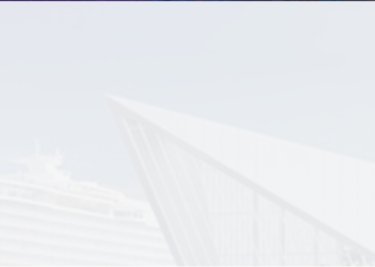
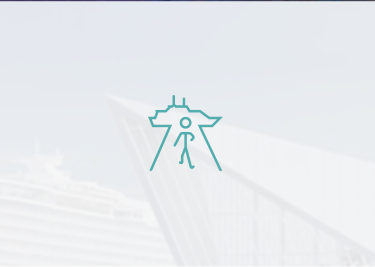
refined the css of the landing page

Changed region(s): [[0.3813, 0.3596, 0.616, 0.6592], [0.5573, 0.5393, 0.5867, 0.6292]]

diff --git a/src/pages/landing/landing.html b/src/pages/landing/landing.html
@@ -26,82 +26,84 @@
   </div>
 
   <!--set the background image of this div-->
-  <div >
     <ion-grid no-padding no-margin>
 
       <ion-row no-padding no-margin>
         <ion-col class="button-icon" no-padding no-margin text-center>
+          <ion-card no-padding no-margin class="card-image">
+            <img src="assets/background/bckg1.png"/>
+            <div class="card-title">EMBARKATION</div>
 
-          <!--<ion-img width="80" height="80" src="assets/imgs/in_logo.png"></ion-img>-->
-          <div class="grid-background1">
+          </ion-card>
 
-            <img style="width: 15vw; height: 15vh; padding-top: 36px; padding-bottom: 20px" src="assets/imgs/Embarkation.png" no-margin alt="hello">
-
-              <ion-label color="primary" no-margin class="label-text" >EMBARKATION</ion-label>
-
-
-          </div>
-
+          <!--<div class="grid-background1">-->
+            <!--<img style="width: 15vw; height: 15vh; padding-top: 36px; padding-bottom: 20px" src="assets/imgs/Embarkation.png" no-margin alt="hello">-->
+              <!--<ion-label color="primary" no-margin class="label-text" >EMBARKATION</ion-label>-->
+          <!--</div>-->
         </ion-col>
         <ion-col  no-padding no-margin text-center>
-          <div class="grid-background2">
-            <img style="width: 15vw; height: 15vh; padding-top: 36px; padding-bottom: 20px" src="assets/imgs/Disembarkation.png" alt="hello">
+          <ion-card no-padding no-margin class="card-image">
+            <img src="assets/background/bckg2.png"/>
+            <div class="card-title">DISEMBARKATION</div>
 
-
-              <ion-label color="primary" no-margin class="label-text">DISEMBARKATION</ion-label>
-
-
-          </div>
+          </ion-card>
+          <!--<div class="grid-background2">-->
+            <!--<img style="width: 15vw; height: 15vh; padding-top: 36px; padding-bottom: 20px" src="assets/imgs/Disembarkation.png" alt="hello">-->
+              <!--<ion-label color="primary" no-margin class="label-text">DISEMBARKATION</ion-label>-->
+          <!--</div>-->
         </ion-col>
       </ion-row>
 
       <ion-row no-padding no-margin>
         <ion-col  no-padding no-margin text-center>
-          <div class="gird-background3">
-            <img style="width: 15vw; height: 15vh; padding-top: 36px; padding-bottom: 20px" src="assets/imgs/Security.png" alt="hello">
+          <ion-card no-padding no-margin class="card-image">
+            <img src="assets/background/bckg3.png"/>
+            <div class="card-title">SECURITY</div>
 
-              <ion-label color="primary" no-margin class="label-text">SECURITY</ion-label>
-
-
-
-          </div>
+          </ion-card>
+          <!--<div class="gird-background3">-->
+            <!--<img style="width: 15vw; height: 15vh; padding-top: 36px; padding-bottom: 20px" src="assets/imgs/Security.png" alt="hello">-->
+              <!--<ion-label color="primary" no-margin class="label-text">SECURITY</ion-label>-->
+          <!--</div>-->
         </ion-col>
 
         <ion-col  no-padding no-margin text-center>
-          <div class="gird-background4">
-            <img style="width: 15vw; height: 15vh; padding-top: 36px; padding-bottom: 20px" src="assets/imgs/Restriction.png" alt="hello">
+          <ion-card no-padding no-margin class="card-image">
+            <img src="assets/background/bckg4.png"/>
+            <div class="card-title">RESTRICTION</div>
 
-              <ion-label color="primary" no-margin class="label-text">RESTRICTION</ion-label>
-
-
-
-          </div>
+          </ion-card>
+          <!--<div class="gird-background4">-->
+            <!--<img style="width: 15vw; height: 15vh; padding-top: 36px; padding-bottom: 20px" src="assets/imgs/Restriction.png" alt="hello">-->
+              <!--<ion-label color="primary" no-margin class="label-text">RESTRICTION</ion-label>-->
+          <!--</div>-->
         </ion-col>
       </ion-row>
 
       <ion-row no-padding no-margin>
         <ion-col  no-padding no-margin text-center (click)="hello('hello')">
+          <ion-card no-padding no-margin class="card-image">
+            <img src="assets/background/bckg5.png"/>
+            <div class="card-title">PARKING</div>
 
-          <div class="gird-background5">
-            <img style="width: 15vw; height: 15vh; padding-top: 36px; padding-bottom: 20px" src="assets/imgs/Parking.png" alt="hello">
+          </ion-card>
 
-              <ion-label color="primary" no-margin class="label-text">PARKING</ion-label>
-
-
-
-          </div>
+          <!--<div class="gird-background5">-->
+            <!--<img style="width: 15vw; height: 15vh; padding-top: 36px; padding-bottom: 20px" src="assets/imgs/Parking.png" alt="hello">-->
+              <!--<ion-label color="primary" no-margin class="label-text">PARKING</ion-label>-->
+          <!--</div>-->
         </ion-col>
         <ion-col  no-padding no-margin text-center (click)="hello('welcome')">
-          <div class="gird-background6">
-            <img style="width: 15vw; height: 15vh; padding-top: 36px; padding-bottom: 20px" src="assets/imgs/Documents.png" alt="hello">
+          <ion-card no-padding no-margin class="card-image">
+            <img src="assets/background/bckg6.png"/>
+            <div class="card-title">DOCUMENTS</div>
 
-              <ion-label color="primary" no-margin class="label-text">DOCUMENTS</ion-label>
-
-
-
-          </div>
+          </ion-card>
+          <!--<div class="gird-background6">-->
+            <!--<img style="width: 15vw; height: 15vh; padding-top: 36px; padding-bottom: 20px" src="assets/imgs/Documents.png" alt="hello">-->
+              <!--<ion-label color="primary" no-margin class="label-text">DOCUMENTS</ion-label>-->
+          <!--</div>-->
         </ion-col>
       </ion-row>
     </ion-grid>
-  </div>
 </ion-content>

diff --git a/src/pages/landing/landing.scss b/src/pages/landing/landing.scss
@@ -12,8 +12,6 @@ page-landing {
         margin-top: 1.5vh;
     }
 
-
-
     .icon-text{
         font-size: 25px;
     }
@@ -34,42 +32,12 @@ page-landing {
     height: auto;
   }
 
-  .div-image {
-    background: url("../assets/imgs/port.png") no-repeat;
-    opacity: 0.25;
-    width: 100%;
-    height: auto;
-  }
+
   .label-text{
     font-weight: bold;
   }
 
-  .grid-background1{
-    background: url(../assets/background/bckg1.png) ;
-    background-size: auto;
 
-
-  }
-
-  .grid-background2{
-    background: url(../assets/background/bckg2.png) ;
-  }
-
-  .gird-background3{
-    background: url(../assets/background/bckg3.png) ;
-  }
-
-  .gird-background4{
-    background: url(../assets/background/bckg4.png) ;
-  }
-
-  .gird-background5{
-    background: url(../assets/background/bckg5.png) ;
-  }
-
-  .gird-background6{
-    background: url(../assets/background/bckg6.png) ;
-  }
 
   //.test-opacity:before {
   //  content: "";
@@ -83,6 +51,20 @@ page-landing {
   //  //background-color: red;
   //  background-size: 25px 10px;
   //}
+
+  .card-title {
+    position: absolute;
+    top: 70%;
+    width: 100%;
+    font-weight: bold;
+    color: #54adad;
+  }
+
+  .card-image{
+    width: auto;
+    height: auto;
+  }
+
 
 
 }
